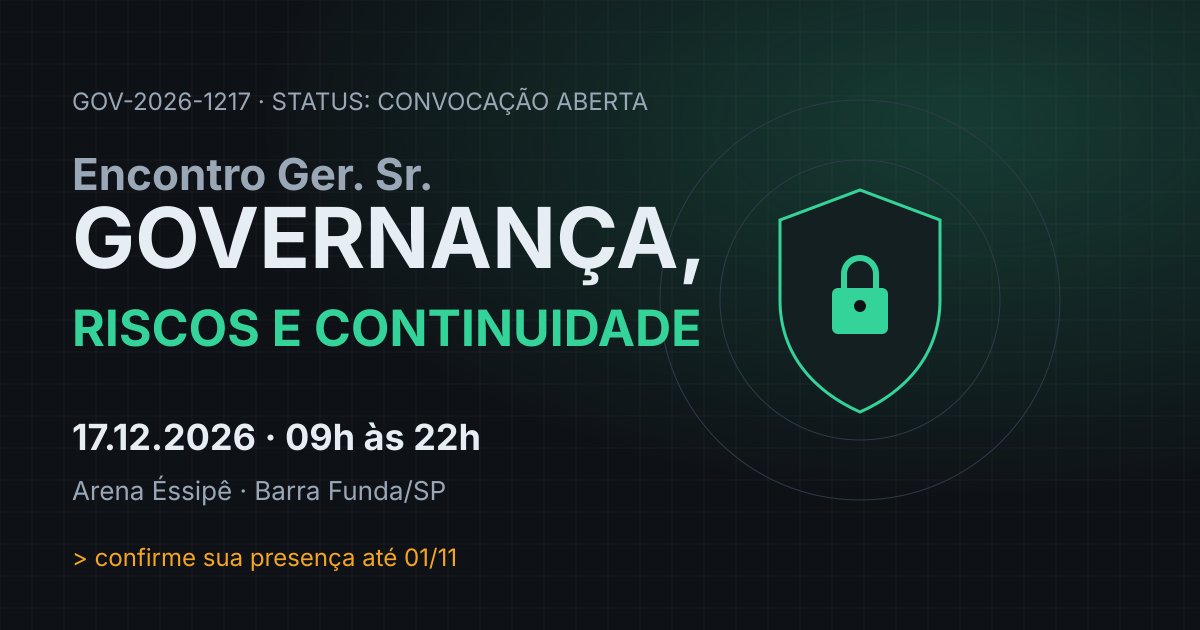
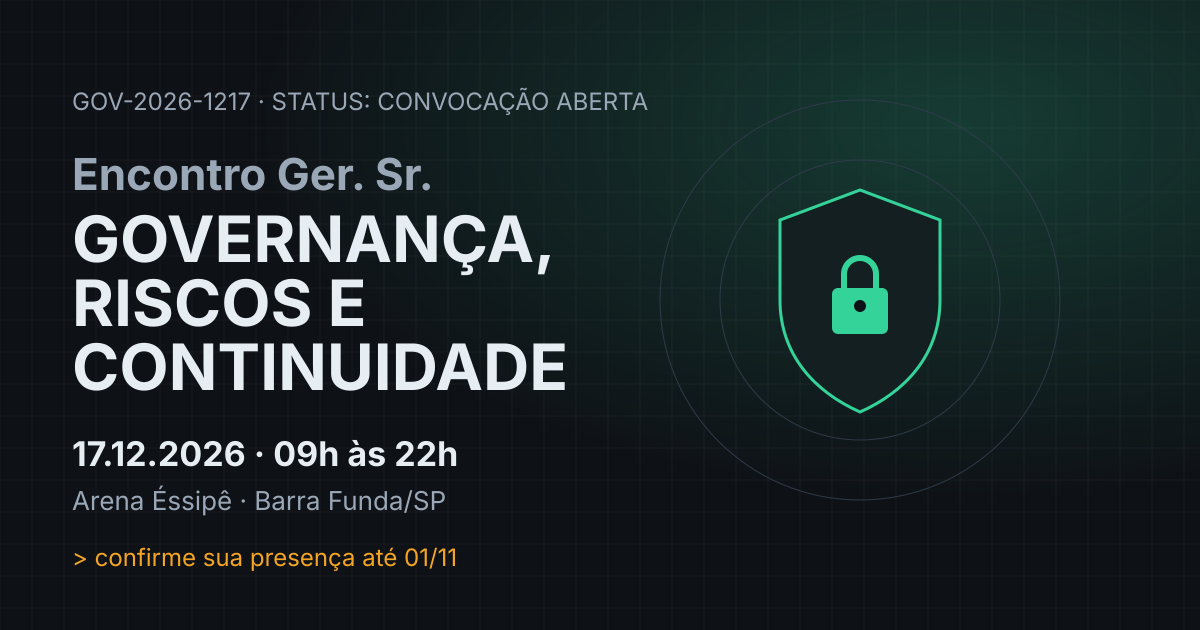
Dá o mesmo peso às três gerências no título
Governança, Riscos e Continuidade com o mesmo tamanho e a mesma cor, no
site e na imagem de compartilhamento.

Claude-Session: https://claude.ai/code/session_01EWVrTENdc6yXvkUKftGxwu

Changed region(s): [[0.0617, 0.3016, 0.5858, 0.6333], [0.0617, 0.6635, 0.4008, 0.8143]]

diff --git a/src/components/landing/Hero.tsx b/src/components/landing/Hero.tsx
@@ -24,18 +24,16 @@ export function Hero() {
             >
               Encontro Ger. Sr.
             </span>
-            <span
-              className="block uppercase"
-              style={{ fontSize: "clamp(2.5rem, 12vw, 5.2rem)" }}
-            >
-              Governança,
-            </span>
-            <span
-              className="block uppercase text-green"
-              style={{ fontSize: "clamp(1.55rem, 6.6vw, 2.9rem)" }}
-            >
-              Riscos e Continuidade
-            </span>
+            {/* As três gerências com o mesmo peso: mesmo tamanho e mesma cor */}
+            {["Governança,", "Riscos e", "Continuidade"].map((line) => (
+              <span
+                key={line}
+                className="block uppercase"
+                style={{ fontSize: "clamp(2.1rem, 11vw, 4.6rem)" }}
+              >
+                {line}
+              </span>
+            ))}
           </h1>
 
           <p className="font-mono text-sm md:text-base text-muted mb-6 caret">
